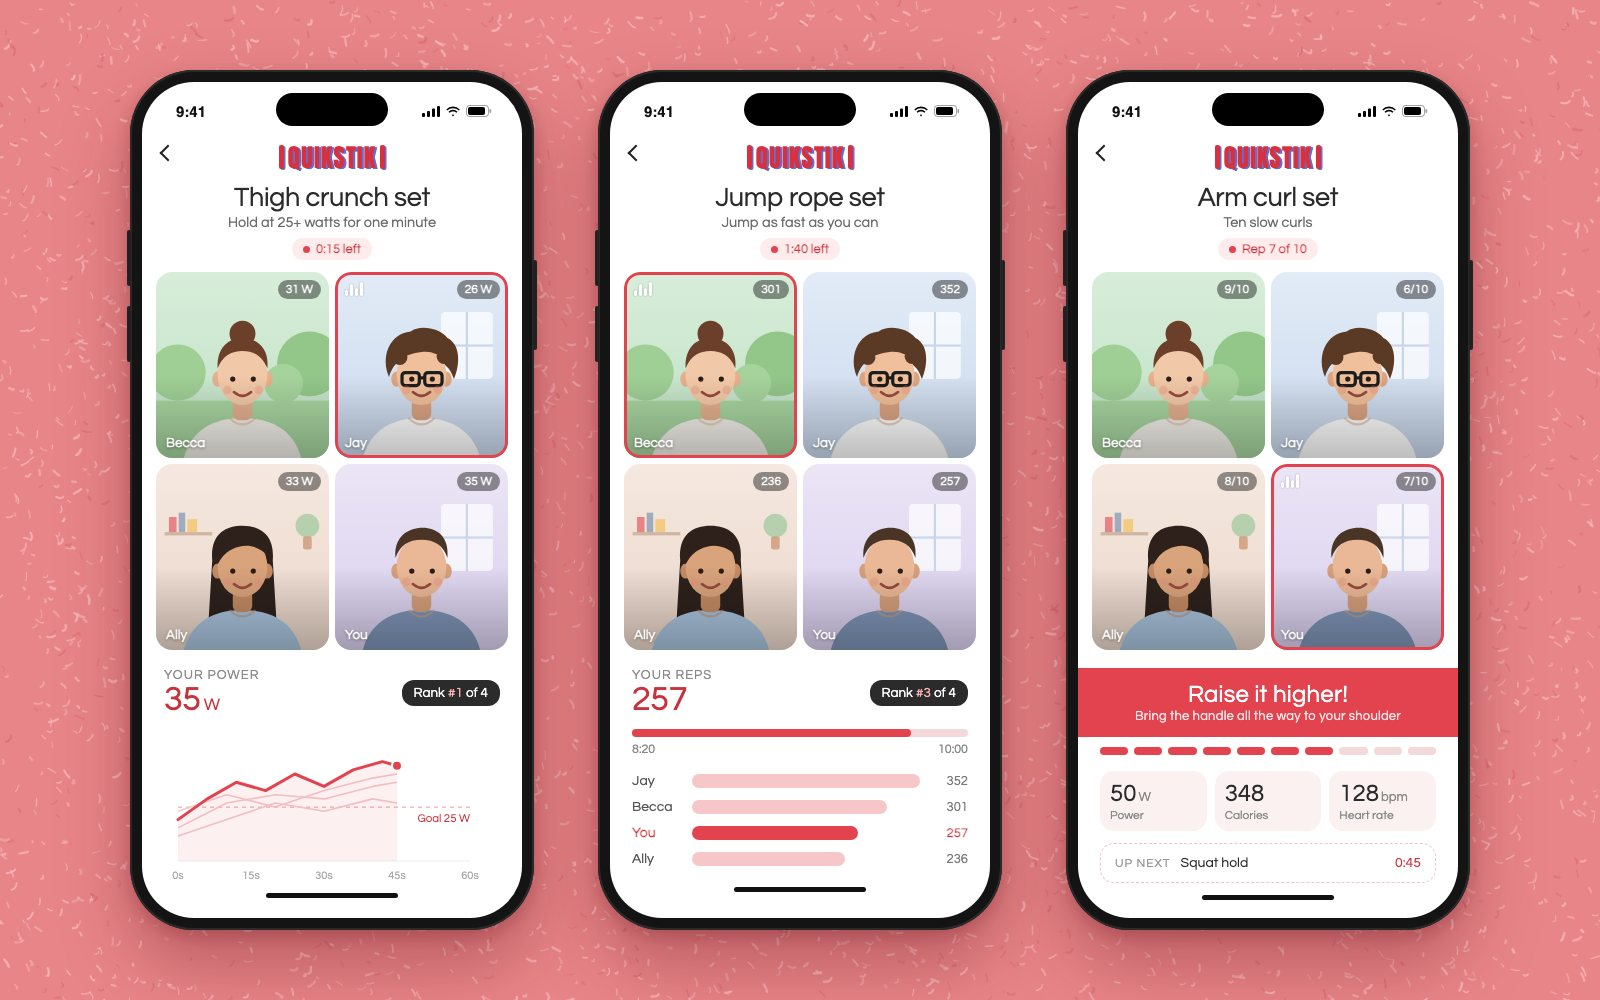
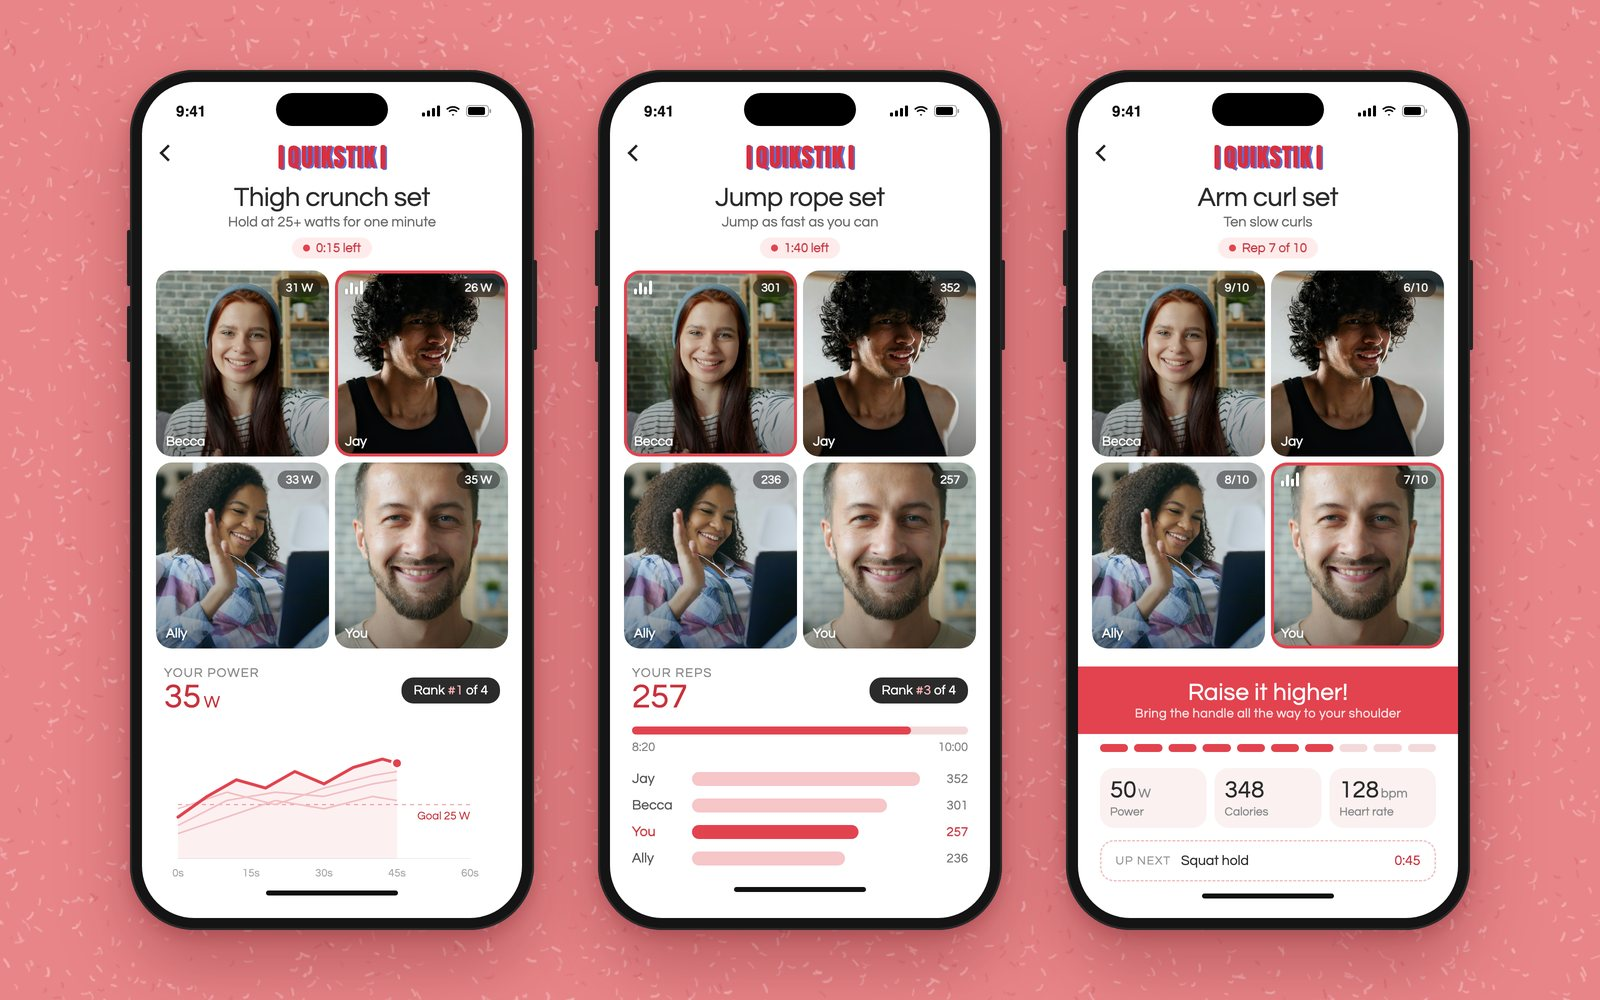
Quikstik: open on the app, real people on its video tiles, label the 3D renders
- The slideshow starts on the app; chapters run The app, The kit, Sketch.
- The line under the title now says it's an app too.
- Becca, Jay, Ally and You are real photos (Unsplash License) instead of
  drawings; the tape's hover preview is the app as well.
- The four product renders carry a corner note: "* High-fidelity 3D models
  I created". Any pan photo can now have a note.

diff --git a/index.html b/index.html
@@ -213,6 +213,8 @@ button:focus-visible,a:focus-visible,.tape:focus-visible,.floor:focus-visible{ou
 .wk-frame>video{position:absolute;inset:0;width:100%;height:100%;object-fit:contain}
 .wk-pan .pg{position:absolute;inset:0;opacity:0;transition:opacity 1.2s;animation:kb 16s ease-in-out infinite alternate}
 .wk-pan .pg.on{opacity:1}
+.wk-note{position:absolute;left:12px;top:10px;z-index:2;color:rgba(235,227,211,.8);text-shadow:0 1px 3px rgba(0,0,0,.6);pointer-events:none;transition:opacity .6s} /* a photo's own caption, e.g. what made it */
+.wk-note.off,.wk-note:empty{opacity:0}
 .wk-pan img,.wk-pan .fx{position:absolute;inset:0;width:100%;height:100%;object-fit:contain}
 @keyframes kb{from{transform:scale(1.02) translate(-1%,1%)}to{transform:scale(1.1) translate(1.5%,-1.5%)}}
 .wk-pan .pg.ui{animation-name:kbui} /* app screens zoom less, so their edges stay in frame */
@@ -527,7 +529,7 @@ const SHELF=[ // index 0 = front of the shelf (newest)
  {id:"hero",name:"Hero Chat",style:"marker",c1:"#efe9dc",c2:"#f2a7c3",c3:"#c2185b",ink2:"#1b1b1b",year:"2023",role:"Full stack · UX/UI",result:"**715** ratings worldwide, **4.8★**",what:"AI chatbots, with other people's chats to explore. Built with my brother; live on the App Store as **WWJD**",link:"https://apps.apple.com/us/app/wwjd-what-would-jesus-do/id6445903415?platform=iphone",linkLabel:"iPhone app"},
  {id:"ease",name:"Ease.",style:"block",c1:"#1F4D3A",c2:"#8fc9a9",c3:"#FAF8F3",ink2:"#FAF8F3",year:"2023",role:"Solo builder",result:"Drafts the notes that take therapists **10 hours** a month",what:"Records a therapy session, with the client's consent, and drafts notes and themes for the therapist to approve"},
  {id:"tfw",name:"That Feeling When",style:"grid",c1:"#a77bff",c2:"#f5c518",c3:"#e63946",ink2:"#111",year:"2020–21",role:"Product lead · team of 4",result:"**19 of 20** kids wanted to play again",what:"My senior capstone, built during the pandemic to help kids learn the words for their emotions. It plays like Among Us: everyone picks how they'd feel in the same situation, except a secret imposter with a different one, and kids explain their feelings to find them. Tested with 40+ kids, then rebuilt as an online game in 2021",link:"https://dhalps.webflow.io/works/that-feeling-when-card-game",linkLabel:"Case study"},
- {id:"quikstik",name:"Quikstik",style:"block",c1:"#1d6fd1",c2:"#9ad1f5",c3:"#fff",ink2:"#fff",year:"2019",role:"Product design",result:"Pitched to **IKEA**",what:"Social home-workout gear with sensor handles",link:"https://dhalps.webflow.io/works/quikstik",linkLabel:"Case study"},
+ {id:"quikstik",name:"Quikstik",style:"block",c1:"#1d6fd1",c2:"#9ad1f5",c3:"#fff",ink2:"#fff",year:"2019",role:"Product design",result:"Pitched to **IKEA**",what:"Social home-workout gear with sensor handles, plus an app for working out with friends",link:"https://dhalps.webflow.io/works/quikstik",linkLabel:"Case study"},
  {id:"bills",name:"Essential Bills",style:"marker",c1:"#efe9dc",c2:"#2a6f3e",c3:"#1b4d2b",ink2:"#1b1b1b",year:"2019",role:"Client design",result:"Strangers paying strangers' bills",what:"Donation app designed for a venture studio",link:"https://dhalps.webflow.io/works/essential-bills",linkLabel:"Case study"},
  {id:"troops",name:"Troops",style:"stripes",c1:"#14806b",c2:"#f0e6c8",c3:"#e2533b",ink2:"#fff",year:"2017",role:"Co-founder",result:"**100s** of deliveries + a **YC** interview",what:"Campus delivery, by students for students",link:"https://dhalps.webflow.io/works/troops",linkLabel:"Case study"},
  {id:"contact",name:"Your track here",style:"marker",c1:"#efe9dc",c2:"#7cffc4",c3:"#111",ink2:"#1b1b1b",year:"Next",role:"Open to talk",result:"Let's make the next one",what:"Got an idea or a role in mind? Email is fastest.",link:"mailto:danielhalper4@gmail.com",linkLabel:"Email Daniel",contact:true}
@@ -581,7 +583,7 @@ const STEP=[
    kind: 'video' (a recording), 'pan' (still images, slowly panned), 'scene' (the contact drawing),
    or 'demo' (a clickable look-alike in assets/demos/<id>.js). aspect: the frame's shape.
    chapters: buttons under it, {id,label}, plus t (seconds) for a video, or i (the photo) for a pan.
-   A pan's photo can carry ms (how long it stays, 6000 by default), mv (a move of its own: a @keyframes name) and faces (see facesSVG). lookalike: adds the "Demo · sample data" label; tag: a label of its own instead.
+   A pan's photo can carry ms (how long it stays, 6000 by default), mv (a move of its own: a @keyframes name), note (a caption in the corner) and faces (see facesSVG). lookalike: adds the "Demo · sample data" label; tag: a label of its own instead.
    A look-alike carries the size it was built to be drawn at (size.json); it's scaled to fit the frame. */
 const WALK={
  sidekick:{kind:'demo',lookalike:true,chapters:[{id:'feedback',label:'Feedback'},{id:'problems',label:'Problems'},{id:'explain',label:'Explanations'}]},
@@ -613,10 +615,11 @@ const WALK={
    {src:'assets/tfw-card.jpg',alt:'A That Feeling When situation card listing five situations, beside a Recognize card asking what emotion you would feel'},
    {src:'assets/tfw-decks.jpg',alt:'The full card set: scenario cards, and prompt cards for emotional vocabulary, coping skills, social comprehension and social support'},{src:'assets/tfw-prototype.jpg',alt:'The first prototype decks: prompts, scenarios and roles'}],
    chapters:[{id:'online',label:'Online game',i:0},{id:'wheel',label:'Emotion wheel',i:3},{id:'cards',label:'The cards',i:6},{id:'proto',label:'First prototype',i:8}]},
- quikstik:{kind:'pan',imgs:[{src:'assets/quikstik-kit.jpg',mv:'push',ms:5000,alt:'The Quikstik kit: a hand grip, jump rope handles and a resistance band with handles'},{src:'assets/quikstik-rope.jpg',mv:'panr',ms:5000,alt:'The Quikstik jump rope handles'},
-   {src:'assets/quikstik-grip.jpg',mv:'pull',ms:5000,alt:'The Quikstik hand grip'},{src:'assets/quikstik-band.jpg',mv:'panl',ms:5000,alt:'The Quikstik arm curl band you stand on, with its cords, the two handles and their end caps'},
-   {src:'assets/quikstik-app.jpg',mv:'nudge',ms:6000,ui:1,alt:'The Quikstik app on three phones: a thigh crunch set, a jump rope set and an arm curl set, with friends on video, live rankings and coaching'},{src:'assets/quikstik-sketch.jpg',mv:'pand',ms:6000,alt:'Concept sketch: one pair of Quikstik handles becoming a thigh and arm crunch, a jump rope and an arm curl band'}],
-   chapters:[{id:'kit',label:'The kit',i:0},{id:'app',label:'The app',i:4},{id:'sketch',label:'Sketch',i:5}]},
+ quikstik:{kind:'pan',imgs:[{src:'assets/quikstik-app.jpg',mv:'nudge',ms:6000,ui:1,alt:'The Quikstik app on three phones: a thigh crunch set, a jump rope set and an arm curl set, with friends on video, live rankings and coaching'},
+   {src:'assets/quikstik-kit.jpg',mv:'push',ms:5000,note:'* High-fidelity 3D models I created',alt:'The Quikstik kit: a hand grip, jump rope handles and a resistance band with handles'},{src:'assets/quikstik-rope.jpg',mv:'panr',ms:5000,note:'* High-fidelity 3D models I created',alt:'The Quikstik jump rope handles'},
+   {src:'assets/quikstik-grip.jpg',mv:'pull',ms:5000,note:'* High-fidelity 3D models I created',alt:'The Quikstik hand grip'},{src:'assets/quikstik-band.jpg',mv:'panl',ms:5000,note:'* High-fidelity 3D models I created',alt:'The Quikstik arm curl band you stand on, with its cords, the two handles and their end caps'},
+   {src:'assets/quikstik-sketch.jpg',mv:'pand',ms:6000,alt:'Concept sketch: one pair of Quikstik handles becoming a thigh and arm crunch, a jump rope and an arm curl band'}],
+   chapters:[{id:'app',label:'The app',i:0},{id:'kit',label:'The kit',i:1},{id:'sketch',label:'Sketch',i:5}]},
  bills:{kind:'video',tag:'Figma prototype · 2019',src:'assets/bills-walk.mp4',poster:'assets/bills-walk.jpg',aspect:'4/3',alt:'Essential Bills, Daniel\'s 2019 Figma prototype: Jack\'s video story and his overdue electric bill, paying it ($123 plus a $6 fee) and confirming, then a thank-you screen with a Keep The Lights On badge',
    chapters:[{id:'story',label:'Meet Jack',t:0},{id:'pay',label:'Pay the bill',t:8.9},{id:'thanks',label:'Thank you',t:20.1}]},
  troops:{kind:'video',tag:'Figma prototype · 2017',src:'assets/troops-walk.mp4',poster:'assets/troops-walk.jpg',aspect:'4/3',alt:'Troops, Daniel\'s 2017 Figma prototype: a dorm group chat with live offers, joining a food pickup order, then posting a laundry task to the dorm',
@@ -958,7 +961,7 @@ function facesSVG(fs,id,k){ const FACES='assets/tfw-faces.png', FACES_WH=[1180,9
 function walkHTML(t){
   const w=WALK[t.id]||{kind:'scene'}, ar=w.aspect||'16/10', [x,y]=ar.split('/').map(Number);
   const media = w.kind==='video' ? `<video muted loop playsinline preload="none" aria-label="${w.alt}"></video>`
-    : w.kind==='pan' ? `<div class="wk-pan">${w.imgs.map((m,k)=>`<div class="pg${k?'':' on'}${m.ui?' ui':''}${m.mv?' mv':''}"${m.mv?` style="--mv:${m.mv};--ms:${(m.ms||6000)+1200}ms"`:''}><img alt="${m.alt}" decoding="async">${m.faces?facesSVG(m.faces,t.id,k):''}</div>`).join('')}</div>`
+    : w.kind==='pan' ? `<span class="small wk-note">${w.imgs[0].note||''}</span><div class="wk-pan">${w.imgs.map((m,k)=>`<div class="pg${k?'':' on'}${m.ui?' ui':''}${m.mv?' mv':''}"${m.mv?` style="--mv:${m.mv};--ms:${(m.ms||6000)+1200}ms"`:''}><img alt="${m.alt}" decoding="async">${m.faces?facesSVG(m.faces,t.id,k):''}</div>`).join('')}</div>`
     : w.kind==='scene' ? sceneSVG(t.id,ACC[t.id]||t.c1) : '';
   const ch=(w.chapters||[]).map((c,k)=>`<button class="wk-c" role="tab" data-ch="${c.id}"${c.t!=null?` data-t="${c.t}"`:''} aria-selected="${k===0}">${c.label}</button>`).join('');
   return `<div class="card wk" style="--ar:${ar};--arv:${(x/y).toFixed(3)}"><div class="wk-frame">${media}</div>
@@ -985,7 +988,8 @@ function walkPlay(id){ const s=wsOf(id), w=WALK[id], f=frameOf(id); s.running=tr
   if(w.kind==='pan'&&w.imgs.length>1&&!s.xf) panNext(id); }
 function panNext(id){ const s=wsOf(id), w=WALK[id], k=[...frameOf(id).querySelectorAll('.pg')].findIndex(p=>p.classList.contains('on')); clearTimeout(s.xf); // each photo stays its own ms, six seconds unless it says
   s.xf=setTimeout(()=>{ panShow(id,(k+1)%w.imgs.length); panNext(id); },w.imgs[k].ms||6000); }
-function panShow(id,k){ const w=WALK[id]; frameOf(id).querySelectorAll('.wk-pan .pg').forEach((p,j)=>{ p.classList.toggle('out',j!==k&&p.classList.contains('on')); p.classList.toggle('on',j===k); }); // out: still fading, so its move carries on
+function panShow(id,k){ const w=WALK[id], n=frameOf(id).querySelector('.wk-note'); if(w.imgs[k].note) n.textContent=w.imgs[k].note; n.classList.toggle('off',!w.imgs[k].note);
+  frameOf(id).querySelectorAll('.wk-pan .pg').forEach((p,j)=>{ p.classList.toggle('out',j!==k&&p.classList.contains('on')); p.classList.toggle('on',j===k); }); // out: still fading, so its move carries on
   const c=(w.chapters||[]).filter(c=>c.i<=k).pop(); if(!c) return; // the lit chapter follows the photo
   secOf(id).querySelectorAll('.wk-c').forEach(b=>b.setAttribute('aria-selected',b.dataset.ch===c.id)); litIntoView(id); }
 function walkPause(id){ const s=wsOf(id), w=WALK[id], f=frameOf(id); s.running=false; f.parentNode.classList.remove('run');
